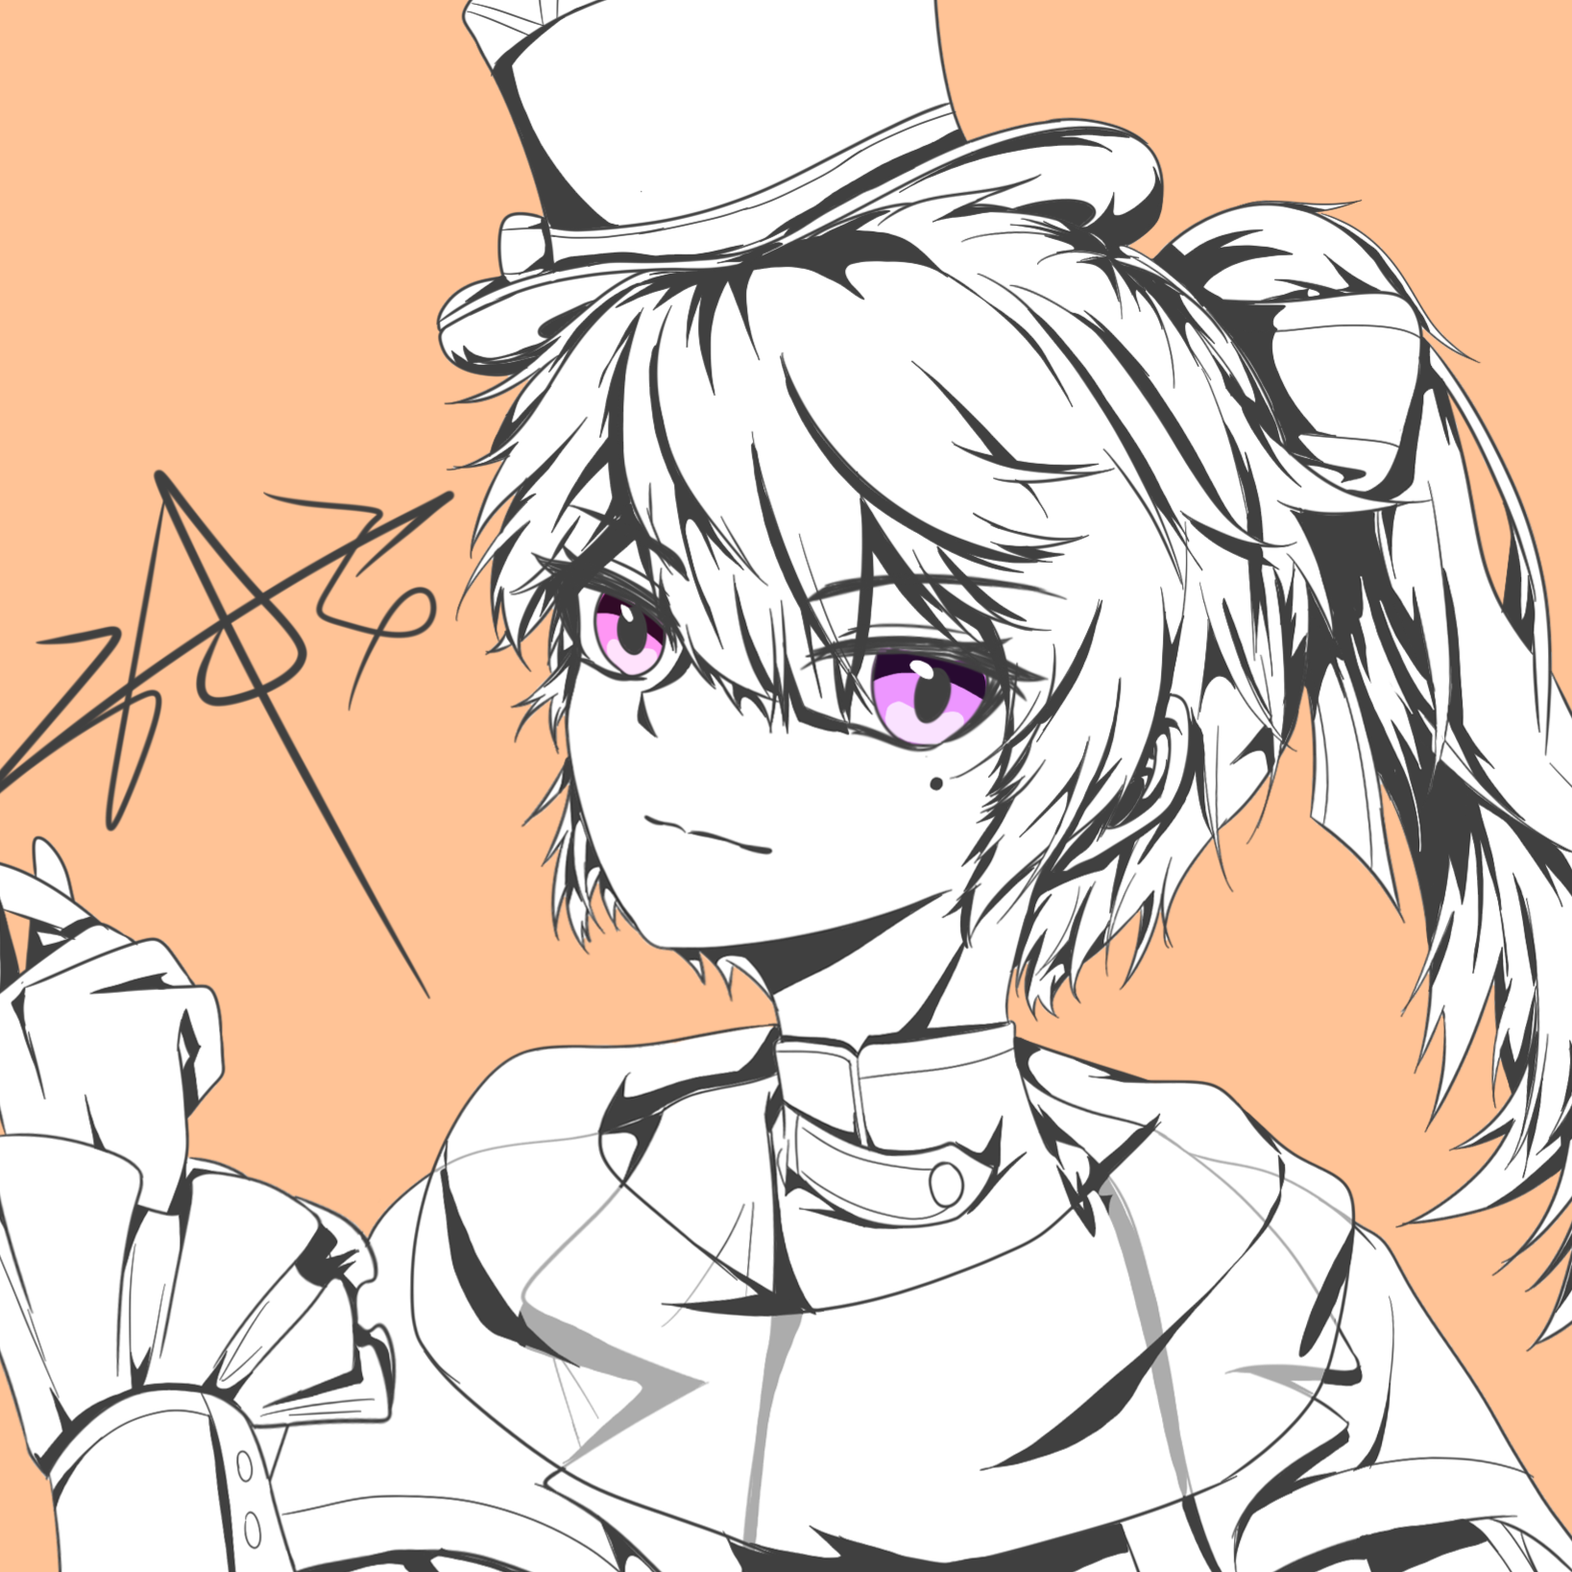
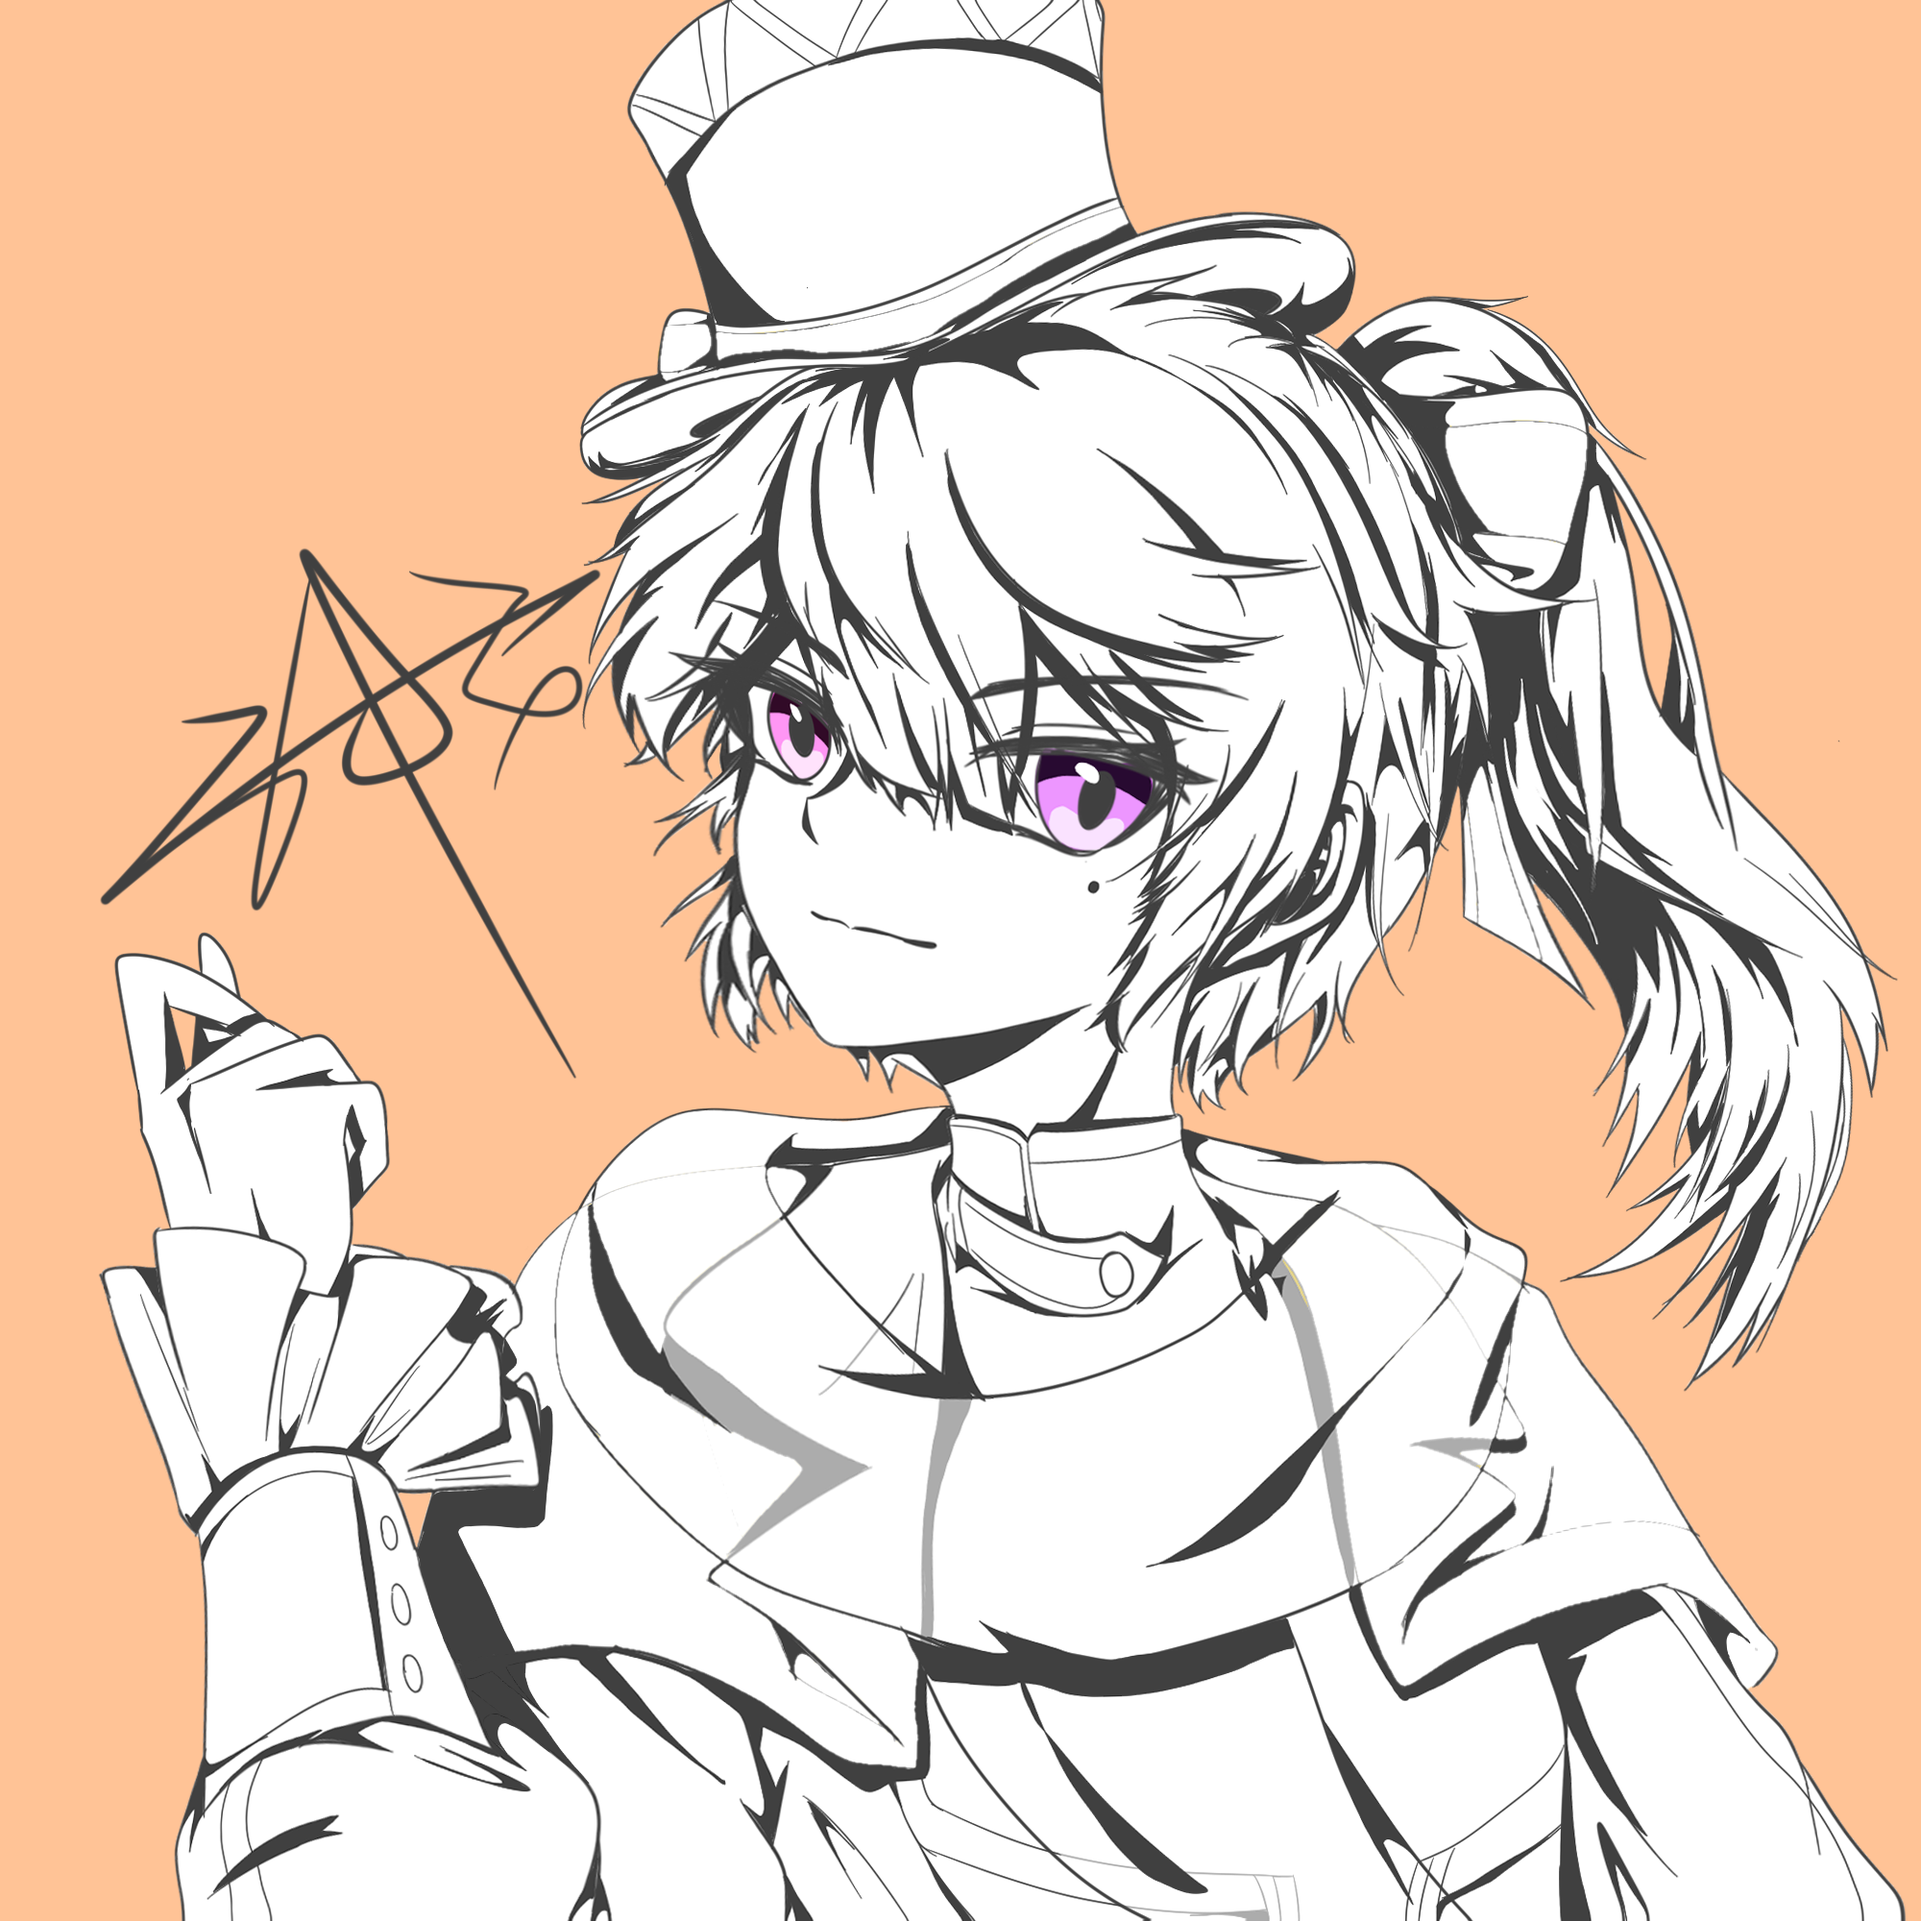
Add files via upload

diff --git a/index.html b/index.html
@@ -395,25 +395,30 @@
                     <li class="project-item">
                         <img src="DNA封面.jpg" alt="项目图片" class="project-image">
                         <div class="project-description">
-                            <div class="member-name">SONG: 【中文填词】D/N/A</div>
+                            <div class="member-name">SONG: 【中文填词】D/N/A-feat.洛天依、言和、乐正绫、墨清弦</div>
                             <div class="member-bio2">
                                 <span class="bio-label">AUTHOR: </span>眠星L[企划]<br>
                                 调教：眠星L，芳彼芮泽安<br>
                                 封面与MMD：眠月泉阿潘<br>
                                 Vocal：洛天依，乐正绫，言和，墨清弦
                             </div>
-                            <a href="你的下载链接地址" class="download-btn" style="background-color: #606060;" target="_blank">DOWNLOAD</a>
+                            <a href="https://github.com/Mumosun/AboutMusic/releases/download/Song/DNA.7z" class="download-btn" style="background-color: #606060;" target="_blank">DOWNLOAD</a>
                         </div>
                     </li>
                     <!-- 工程2 - 按钮颜色2 -->
-                    <!--<li class="project-item">
-                        <img src="your_project_image_2.png" alt="项目图片" class="project-image">
+                    <li class="project-item">
+                        <img src="劣等上等_填词by芳彼芮泽安-封面.jpg" alt="项目图片" class="project-image">
                         <div class="project-description">
-                            这里是第二个工程文件的详细介绍文字。
-                            <br>
-                            <a href="你的下载链接地址" class="download-btn" style="background-color: #808080;" target="_blank">DOWNLOAD</a>
+                            <div class="member-name">SONG: 【中文填词】劣等上等-feat.乐正绫、徵羽摩柯</div>
+                            <div class="member-bio2">
+                                <span class="bio-label">AUTHOR: </span>芳彼芮泽安[企划]<br>
+                                调教：芳彼芮泽安<br>
+                                封面与MV：芳彼芮泽安<br>
+                                Vocal：乐正绫，徵羽摩柯
+                            </div>
+                            <a href="https://github.com/Mumosun/AboutMusic/releases/download/Song/LieDengShangDeng.zip" class="download-btn" style="background-color: #808080;" target="_blank">DOWNLOAD</a>
                         </div>
-                    </li>-->
+                    </li>
                 </ul>
             </div>
         </section>
